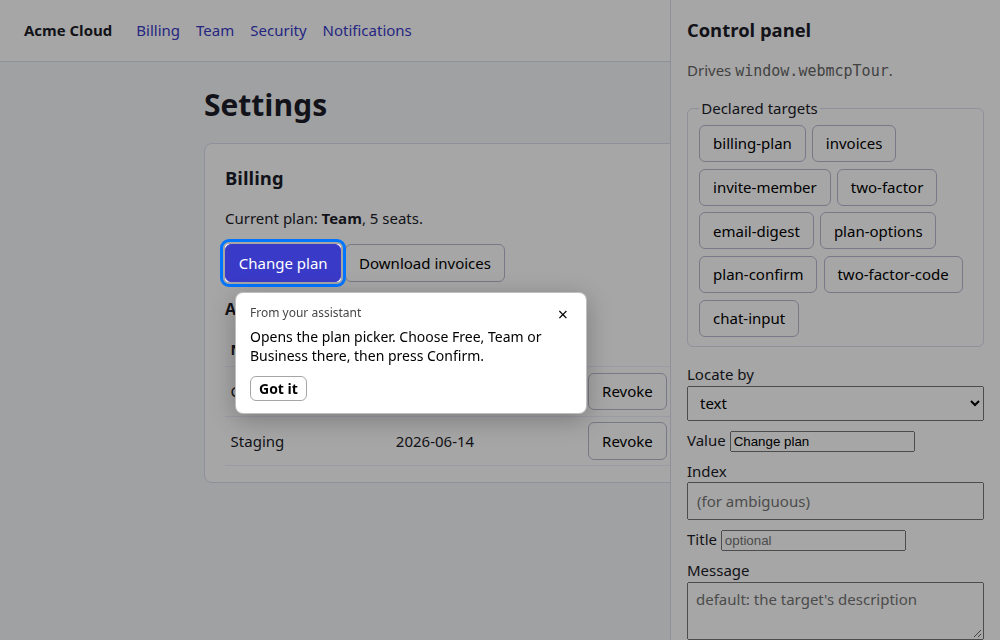
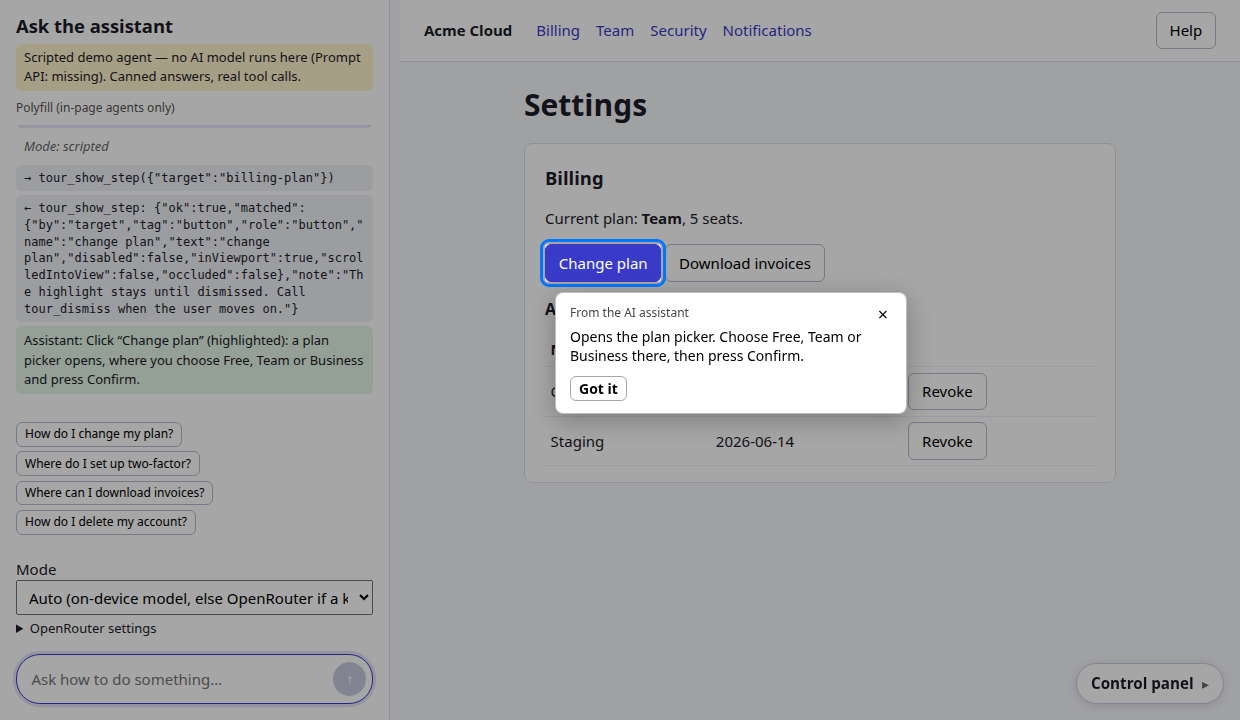
Default attribution: "From the AI assistant"
"Your assistant" was wrong when the site itself provides the agent. The
default now names the AI without saying whose it is; sites with their own
agent should set labels.attribution to its name. Screenshots and the README
GIF are regenerated (docs screenshots now use the collapsed control panel).

diff --git a/test/demo-agent.test.ts b/test/demo-agent.test.ts
@@ -282,7 +282,7 @@ describe("demo page (scripted mode, end to end)", () => {
     expect(lines.some((l) => l.startsWith("← tour_show_step:") && l.includes('"error":"other_page"'))).toBe(true);
     expect(doc.querySelector("#transcript li.answer")!.textContent).toContain("Security");
     // The card asks; nothing has moved.
-    expect(card(doc).querySelector("[part~=message]")!.textContent).toBe("Your assistant suggests going to Security");
+    expect(card(doc).querySelector("[part~=message]")!.textContent).toBe("The AI assistant suggests going to Security");
     expect(card(doc).querySelector("[part~=spotlight]")?.matches(":popover-open")).toBeFalsy();
     expect(doc.location.pathname).toBe(path);
     expect(view(doc)).toEqual(["billing"]);

diff --git a/test/pages.test.ts b/test/pages.test.ts
@@ -198,7 +198,7 @@ describe("a target on another page", () => {
     expect(r).toMatchObject({ ok: false, error: "other_page", page: { id: "security", title: "Security" } });
     expect(open("popover")).toBe(true);
     expect(open("spotlight")).toBe(false);
-    expect(q("message").textContent).toBe("Your assistant suggests going to Security");
+    expect(q("message").textContent).toBe("The AI assistant suggests going to Security");
     expect(q("go").textContent).toBe("Go to Security");
     expect(q("notnow").textContent).toBe("Not now");
     expect(visible("go") && visible("notnow") && !visible("gotit") && !visible("goto")).toBe(true);

diff --git a/test/overlay-api.test.ts b/test/overlay-api.test.ts
@@ -20,7 +20,7 @@ describe("content", () => {
   it("carries the attribution label by default and lets it be overridden", async () => {
     const fx = await openFixture();
     fx.overlay.show(fx.el("t-plain"), { message: "m" });
-    expect(parts(fx).attribution.textContent).toBe("From your assistant");
+    expect(parts(fx).attribution.textContent).toBe("From the AI assistant");
     fx.overlay.destroy();
     const fx2 = await openFixture({ query: "attribution=Acme%20helper" });
     fx2.overlay.show(fx2.el("t-plain"), { message: "m" });

diff --git a/test/security.test.ts b/test/security.test.ts
@@ -22,7 +22,7 @@ afterEach(() => {
 describe("attribution", () => {
   it("is on the card by default, whatever the caller sends", async () => {
     await tour.show({ selector: "#save", title: "Site notice", message: "From the site itself." });
-    expect(root().querySelector("[part~=attribution]")!.textContent).toBe("From your assistant");
+    expect(root().querySelector("[part~=attribution]")!.textContent).toBe("From the AI assistant");
   });
 });
 

diff --git a/test/placement.test.ts b/test/placement.test.ts
@@ -66,7 +66,7 @@ describe("center (default)", () => {
     q("popover").focus();
     expect(root().activeElement).toBe(q("popover"));
     await new Promise((r) => setTimeout(r, 120));
-    expect(q("live").textContent).toBe("Your assistant suggests going to Security");
+    expect(q("live").textContent).toBe("The AI assistant suggests going to Security");
   });
 
   it("also applies to a target on another page", async () => {

diff --git a/src/engine/overlay/types.ts b/src/engine/overlay/types.ts
@@ -39,10 +39,10 @@ export const LABELS: Readonly<Labels> = {
   gotIt: "Got it",
   takeMeThere: "Take me there",
   close: "Dismiss",
-  attribution: "From your assistant",
+  attribution: "From the AI assistant",
   goToPage: "Go to {page}",
   notNow: "Not now",
-  otherPage: "Your assistant suggests going to {page}",
+  otherPage: "The AI assistant suggests going to {page}",
 };
 
 export interface ShowResult {

diff --git a/src/tour/resume.ts b/src/tour/resume.ts
@@ -1,6 +1,6 @@
 // Resume after navigation. Only a random nonce travels in the URL; the step itself
 // (target, title, message) stays in this tab's sessionStorage, so a crafted link can
-// never make the page show text "from your assistant".
+// never make the page show text "from the AI assistant".
 
 /** The step to show on the destination page. */
 export interface Pending {

diff --git a/site/content/concepts.md b/site/content/concepts.md
@@ -65,7 +65,7 @@ tour.defineTarget({ id: "two-factor", page: "security", label: "Set up two-facto
 - **`tour_show_step`** takes a fourth locator, `{ page: "security" }`. For an off-page target, or an explicit `page`, it shows a card with no spotlight: the `otherPage` text, **Go to Security** and **Not now**. The result is `{ ok: false, error: "other_page", page }` for a target, and `{ ok: true, suggested: page }` for a `page` locator. A call never navigates; only the user's click on **Go** calls `navigate(url)`.
 - **Waiting.** With a suggestion on screen, `tour_wait_for_interaction` resolves `{ status: "navigating" }` on **Go** and `{ status: "dismissed" }` on **Not now**, the × button, or Escape.
 
-![A card in the middle of the page reads "Your assistant suggests going to Security", with buttons Go to Security and Not now.](images/other-page.png)
+![A card in the middle of the page reads "The AI assistant suggests going to Security", with buttons Go to Security and Not now.](images/other-page.png)
 
 For a single-page app, pass `navigate` (your router's push) so the page does not reload and an agent embedded in the page stays alive. A full page load restarts an embedded agent (the highlight still resumes, see below).
 
@@ -102,7 +102,7 @@ createTour({ resume: { param: "webmcp-tour" } }); // the default; `resume: false
 
 - **What is stored.** The step (page id, target, title, message, a timestamp) goes in `sessionStorage` under a random nonce. Only the nonce is added to the destination URL, as the `param` query parameter.
 - **On load**, or for a single-page app after `navigate()` returns, the tour looks the nonce up. A fresh entry (at most **2 minutes** old) is shown as the step as soon as its target is on the page (a `MutationObserver` watches for it, for at most **5 seconds**). Then the parameter is removed with `history.replaceState` and the entry is deleted: **one use**.
-- **Safety.** The message, title and target never go in the URL. A link with an unknown, expired or already used nonce shows nothing, so nobody can craft a link that makes your site display text "from your assistant". Same-origin destinations only: a URL on another origin is used as is, with no nonce.
+- **Safety.** The message, title and target never go in the URL. A link with an unknown, expired or already used nonce shows nothing, so nobody can craft a link that makes your site display text "from the AI assistant". Same-origin destinations only: a URL on another origin is used as is, with no nonce.
 - **What the agent sees.** The next tool result after a resume carries `resumed: { page, target? }` (`tour.takeResumed()` gives the same once). A `tour_wait_for_interaction` that ended with `navigating` is finished for good; one called with no arguments while a resume is still looking for its target waits for it, then waits on the resumed highlight.
 - **Full page loads.** An agent embedded in the page restarts, but the highlight still resumes: it does not depend on the agent. If your `navigate` appends its own query string, build it from the URL it is given (it already carries the nonce).
 
@@ -116,10 +116,10 @@ createTour({
     gotIt: "Got it",
     takeMeThere: "Take me there",
     close: "Dismiss", // aria label of the × button
-    attribution: "From your assistant", // visible, and the card's aria label
+    attribution: "From the AI assistant", // visible, and the card's aria label
     goToPage: "Go to {page}", // {page} is the page title
     notNow: "Not now",
-    otherPage: "Your assistant suggests going to {page}",
+    otherPage: "The AI assistant suggests going to {page}",
   },
 });
 ```

diff --git a/site/content/index.md b/site/content/index.md
@@ -8,7 +8,7 @@ order: 1
 
 [Try the live demo](demo/) · [Quick start](quick-start.md) · [Tools reference](tools.md)
 
-![The Billing page of the demo app: the Change plan button is highlighted and a card beside it says "From your assistant" with the explanation and a Got it button.](images/highlight-card.png)
+![The Billing page of the demo app: the Change plan button is highlighted and a card beside it says "From the AI assistant" with the explanation and a Got it button.](images/highlight-card.png)
 
 It is a zero-dependency TypeScript library for the browser. It registers four [WebMCP](https://github.com/webmachinelearning/webmcp) tools on the page, so any agent that can call WebMCP tools (a browser's built-in assistant, an MCP client driving Chrome, or a model called from your own page script) can point at things.
 
@@ -32,7 +32,7 @@ You can mix them freely: declared targets are an addition, not a mode.
 
 ## What the user sees
 
-- A spotlight ring around the control, and a card beside it labelled **From your assistant** (so a page cannot pass the text off as its own) with a **Got it** button.
+- A spotlight ring around the control, and a card beside it labelled **From the AI assistant** (so a page cannot pass the text off as its own) with a **Got it** button.
 - Optionally **Take me there**, which scrolls to the control, focuses it and pulses the ring.
 - For a control on another page: a card in the middle of the viewport, **Go to Security** or **Not now**, and nothing moves until the user picks.
 

diff --git a/site/content/security.md b/site/content/security.md
@@ -14,7 +14,8 @@ The library has one job: draw a highlight and a card. The defaults are built so 
 
 ## It cannot pass text off as the site's own
 
-- The card always says **From your assistant** (configurable through `labels.attribution`, but never removed), and the card's aria label is the same. A page that shows agent text next to its own UI makes clear whose words they are.
+- The card always says **From the AI assistant** (configurable through `labels.attribution`, but never removed), and the card's aria label is the same. A page that shows agent text next to its own UI makes clear whose words they are.
+- **If your site provides the agent**, rename the label to your assistant's name, for example `labels: { attribution: "Acme Assistant" }`. Agents can never set it themselves, so a tool call cannot claim to be "Acme Support".
 - Titles and messages are **plain text**: they are set as `textContent`, never parsed as HTML. Labels the same. Limits are 80 characters for a title, 500 for a message.
 - A resumed step cannot be forged with a link. Only a random nonce travels in the URL; the step is kept in this tab's `sessionStorage` and used once, within 2 minutes. A crafted link with an unknown, expired or used nonce shows nothing ([Concepts](concepts.md)).
 - A custom `renderPopover` hook is your code: you own its escaping.

diff --git a/skills/webmcp-tour/references/api.md b/skills/webmcp-tour/references/api.md
@@ -23,7 +23,7 @@ All optional.
 | `exclude` | CSS selector | Never pointed at. Also `data-tour-exclude`. Invalid selector throws `TypeError`. |
 | `domTargets` | boolean | `false` ignores `data-tour-*` markup; only `defineTarget` targets exist. Use on pages that render user-written HTML. |
 | `locators` | `{ selector?, text? }` booleans | Turn a locator off; `target` is always on. |
-| `labels` | `Partial<Labels>` | `gotIt` "Got it", `takeMeThere` "Take me there", `close` "Dismiss", `attribution` "From your assistant", `goToPage` "Go to {page}", `notNow` "Not now", `otherPage` "Your assistant suggests going to {page}". |
+| `labels` | `Partial<Labels>` | `gotIt` "Got it", `takeMeThere` "Take me there", `close` "Dismiss", `attribution` "From the AI assistant", `goToPage` "Go to {page}", `notNow` "Not now", `otherPage` "The AI assistant suggests going to {page}". |
 | `takeMeThere` | boolean | Adds a button that scrolls, focuses and pulses. Default off. |
 | `pages` | `PageDefinition[]` | `{ id, url, title, description?, match? }`. `match`: string = pathname prefix, RegExp on pathname, or `(location) => boolean`. Default: `url` path equals `location.pathname`. First match wins. |
 | `navigate` | `(url) => void` | Called only on the user's **Go**. Default `location.assign`. Give the router's push for SPAs. |

diff --git a/site/content/accessibility.md b/site/content/accessibility.md
@@ -10,7 +10,7 @@ The overlay is built to be usable without a mouse or a screen, and it is tested 
 
 - A persistent **live region** (`role="status"`, `aria-live="polite"`, `aria-atomic="true"`) is put in the page at load, before the first step, so assistive technology has registered it by the time something is announced. It is cleared and set again after a short beat so repeated messages are heard.
 - A step is announced as `<message> — <control name>, <landmark>`, for example "Pick a plan and press Confirm. — Change plan, Billing". A page suggestion announces its text.
-- The card is a `role="group"` labelled by the attribution text ("From your assistant"), so it is always clear who is speaking. The × button has its own label (`labels.close`).
+- The card is a `role="group"` labelled by the attribution text ("From the AI assistant"), so it is always clear who is speaking. The × button has its own label (`labels.close`).
 - `describeTarget: true` also points the target's `aria-describedby` at a hidden copy of the message while the step shows, and restores the original on dismiss. Off by default, because it edits the page's own element.
 
 ## Keyboard
